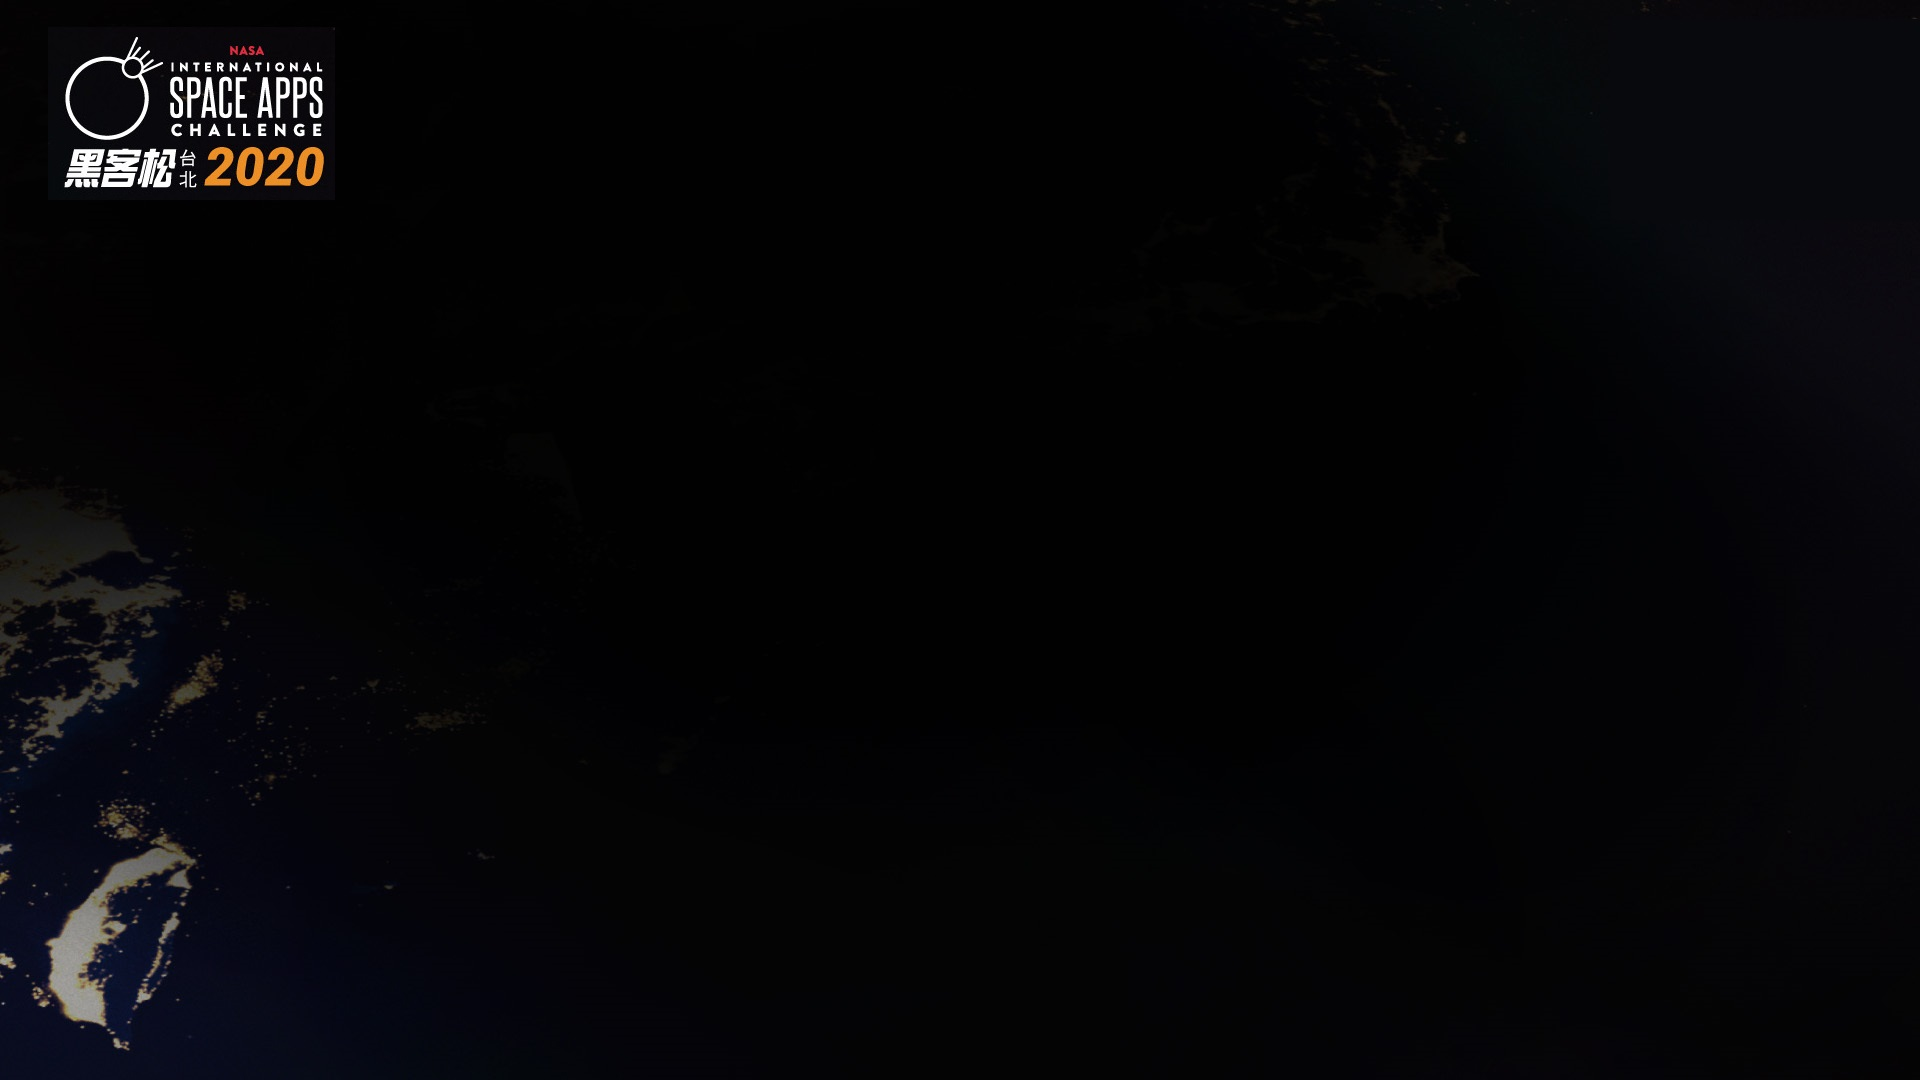
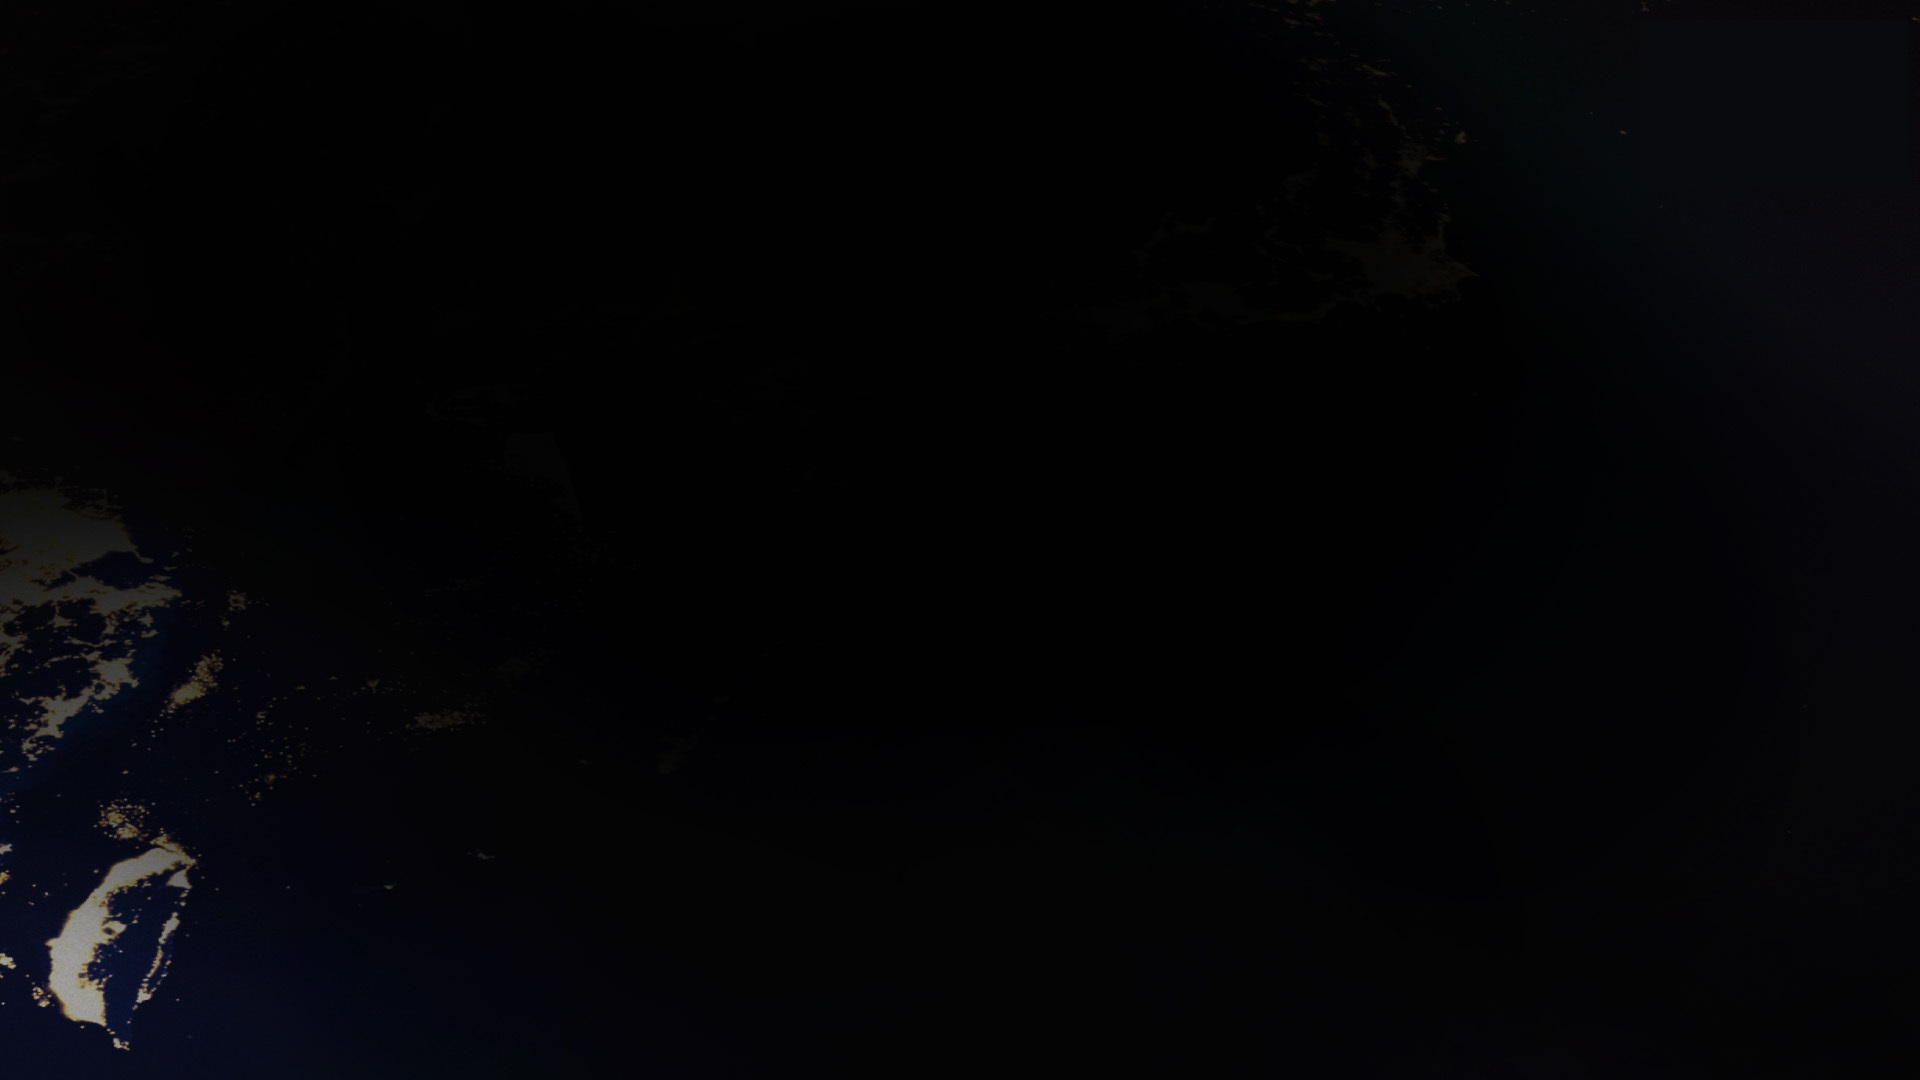
place the organization name.

Changed region(s): [[0.0312, 0.0306, 0.1875, 0.1833]]

diff --git a/index.html b/index.html
@@ -10,15 +10,26 @@
     <div class="container-fluid">
         <div class="row">
             <div class="col">
+                <img class="mx-auto d-block challenge" src="./static/img/event_logo.png">
+            </div>
+        </div>
+    </div>
+    <br>
+    <div class="container-fluid">
+        <div class="row">
+            <div class="col">
                 <h2 class="font-weight-bold text-center">主辦單位</h2>
             </div>
         </div>
         <div class="row">
-            <div class="col-1"></div>
-            <div class="col-10 text-center">
-                **這裡放 logo**
-            </div>
-            <div class="col-1"></div>
+            <div class="col-4 text-center h5">美國在台協會</div>
+            <div class="col-4 text-center h5">國家太空中心</div>
+            <div class="col-4 text-center h5">台北市政府</div>
+        </div>
+        <div class="row">
+            <div class="col-4 text-center h5">國立台灣大學</div>
+            <div class="col-4 text-center h5">美國創新中心</div>
+            <div class="col-4 text-center h5">線上揪松Jothon Online</div>
         </div>
     </div>
     <br>
@@ -29,11 +40,15 @@
             </div>
         </div>
         <div class="row">
-            <div class="col-1"></div>
-            <div class="col-10 text-center">
-                **這裡放 logo**
-            </div>
-            <div class="col-1"></div>
+            <div class="col-4 text-center h5">財團法人婦女權益促進發展基金會</div>
+            <div class="col-4 text-center h5">臺灣微軟股份有限公司</div>
+            <div class="col-4 text-center h5">聯發科（MediaTek)</div>
+        </div>
+        <div class="row">
+            <div class="col-3 text-center h5">臺灣科技大學設計學院</div>
+            <div class="col-3 text-center h5">g0v零時政府揪松團(g0v Jothon)</div>
+            <div class="col-3 text-center h5">李幕約有限公司(Muyueh Ltd)</div>
+            <div class="col-3 text-center h5">電週文化事業（iThome)</div>
         </div>
     </div>
     <br>
@@ -44,11 +59,8 @@
             </div>
         </div>
         <div class="row">
-            <div class="col-1"></div>
-            <div class="col-10 text-center">
-                **這裡放 logo**
-            </div>
-            <div class="col-1"></div>
+            <div class="col-6 text-center h5">美國創新中心</div>
+            <div class="col-6 text-center h5">線上揪松Jothon Online</div>
         </div>
     </div>
 

diff --git a/static/css/index.css b/static/css/index.css
@@ -10,6 +10,11 @@ body {
     background-position:top left;
 }
 
+/* Space App Challenge logo size */
+.challenge {
+    width: 20%;
+}
+
 hr {
     border: 1px solid orange;
 }
